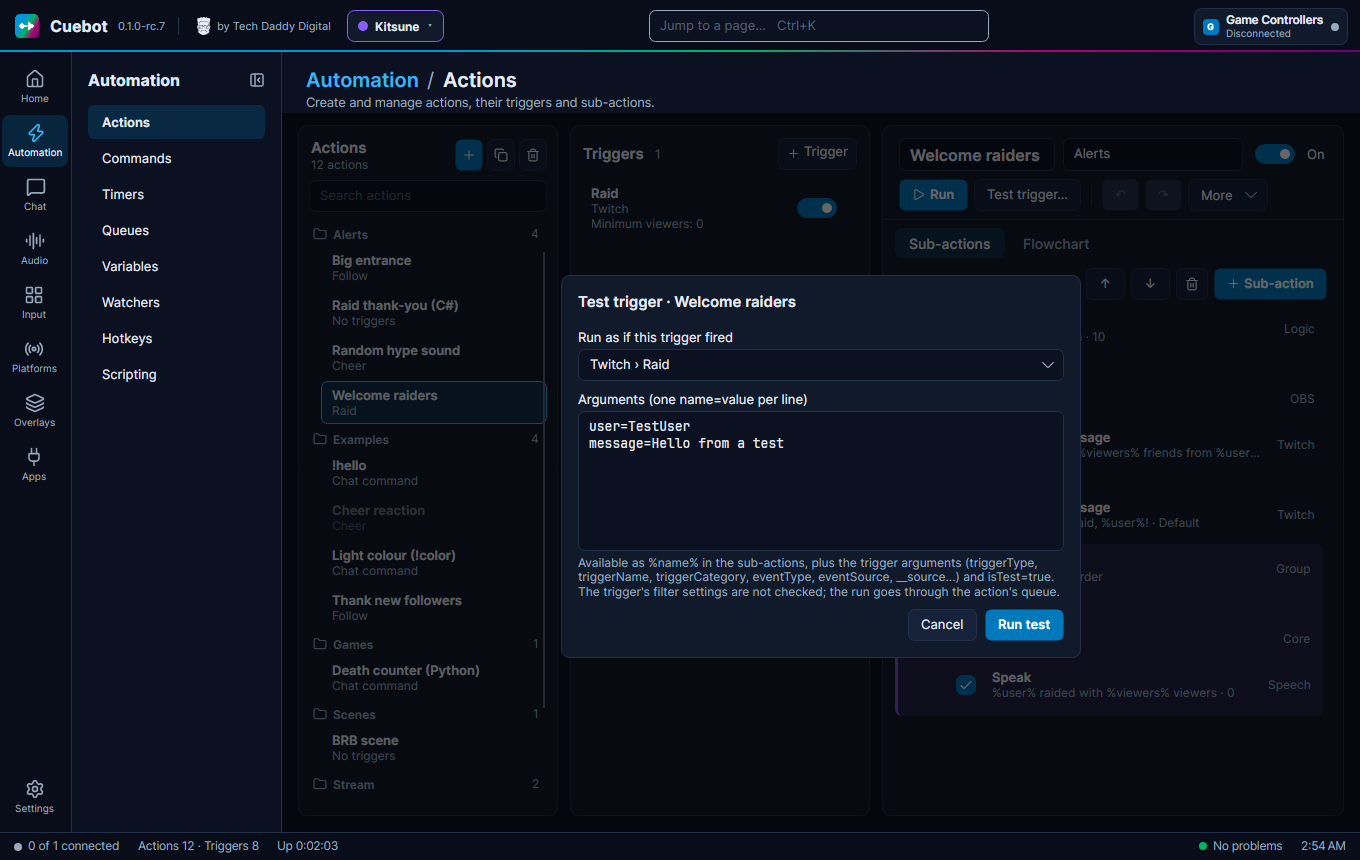
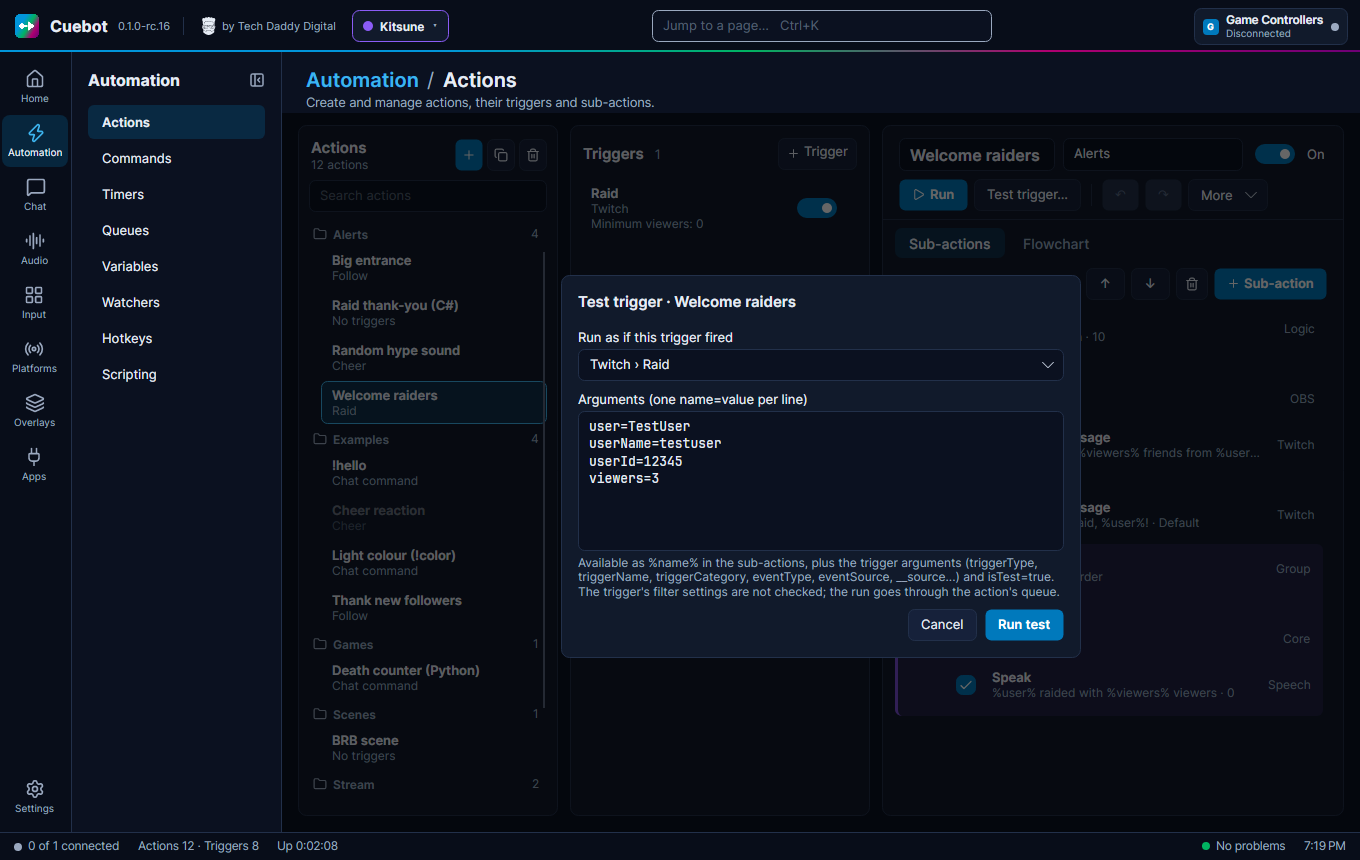
Test trigger starts with sample values for the chosen trigger's variables
Test trigger always started with user=TestUser and a message, whatever the
trigger. Testing a Cheer, Kick gift or Super Chat action then had no bits,
kicks or amount, so a step like "How many = $math(floor(%bits% / 10))$"
failed with "How many must be a number". The arguments box now starts with
a made-up value for each of the chosen trigger's variables (from its help:
bits=100, kicks=100, amount=5, currency=USD, userName=testuser, isX=False,
ids 12345...), raised to the trigger's own minimum (minBits and so on);
picking another trigger starts again from its values.

The action editor guide says so, and that Run (and a deck button without
Variables) gives no trigger values; the first-action guide and the Test
trigger screenshot are updated.

Tests: ActionsUxTests 13/13 with the new
Test_trigger_fills_in_the_triggers_own_variables (real Cheer, Kick gift and
Super Chat help); action editor, Wave2 and docs screenshot tests pass.

AI-Assisted-By: Claude

diff --git a/src/Cuebot.App/ViewModels/Actions/TestTriggerViewModel.cs b/src/Cuebot.App/ViewModels/Actions/TestTriggerViewModel.cs
@@ -6,8 +6,11 @@ using Cuebot.Core.Variables;
 
 namespace Cuebot.App.ViewModels.Actions;
 
-/// <summary>One choice in the test overlay: an action's trigger, or custom arguments only (null trigger).</summary>
-public sealed record TestTriggerOption(string Display, TriggerDefinition? Trigger);
+/// <summary>
+/// One choice in the test overlay: an action's trigger, or custom arguments only (null trigger). <see cref="Sample"/> is
+/// what the arguments box starts with for it: a made-up value for each of the trigger's variables.
+/// </summary>
+public sealed record TestTriggerOption(string Display, TriggerDefinition? Trigger, string Sample = TestTriggerViewModel.DefaultArguments);
 
 /// <summary>
 /// "Test trigger…" overlay: pick a trigger, type key=value arguments (one per line) and run the action as if the
@@ -20,7 +23,9 @@ public sealed partial class TestTriggerViewModel : ObservableObject
     [ObservableProperty] private bool _isOpen;
     [ObservableProperty] private string _actionName = "";
     [ObservableProperty] private TestTriggerOption? _selected;
-    [ObservableProperty] private string _arguments = "user=TestUser\nmessage=Hello from a test";
+    public const string DefaultArguments = "user=TestUser\nmessage=Hello from a test";
+
+    [ObservableProperty] private string _arguments = DefaultArguments;
     [ObservableProperty] private string _error = "";
 
     public ObservableCollection<TestTriggerOption> Options { get; } = [];
@@ -29,12 +34,20 @@ public sealed partial class TestTriggerViewModel : ObservableObject
     {
         ActionName = action.Name;
         Options.Clear();
-        foreach (var t in action.Triggers) Options.Add(new TestTriggerOption($"{t.Category} › {t.Title}", t.Definition));
+        foreach (var t in action.Triggers)
+            Options.Add(new TestTriggerOption($"{t.Category} › {t.Title}", t.Definition, TriggerSamples.Arguments(t.VariableHelp, t.Definition.Settings)));
         Options.Add(new TestTriggerOption("Custom arguments only", null));
+        Selected = null;   // so the first option counts as a change and fills the box
         Selected = Options[0];
         Error = "";
         _run = run;
         IsOpen = true;
+    }
+
+    // Each trigger starts with its own sample values (a cheer gets bits=100); edits are kept until another is chosen.
+    partial void OnSelectedChanged(TestTriggerOption? value)
+    {
+        if (value is not null) Arguments = value.Sample;
     }
 
     /// <summary>Parses "key=value" lines. Blank lines and lines starting with # are ignored.</summary>
@@ -80,5 +93,55 @@ public sealed partial class TestTriggerViewModel : ObservableObject
     {
         IsOpen = false;
         _run = null;
+    }
+}
+
+/// <summary>
+/// Made-up values for a trigger's variables, so "Test trigger" runs an action the way a real event would: a cheer gets
+/// bits, a Kick gift gets kicks, a Super Chat gets an amount. A number is raised to the trigger's own minimum
+/// (minBits for bits, and so on) so the test passes the trigger's filter.
+/// </summary>
+public static class TriggerSamples
+{
+    public static string Arguments(IReadOnlyDictionary<string, string> variables, IReadOnlyDictionary<string, string> settings)
+    {
+        if (variables.Count == 0) return TestTriggerViewModel.DefaultArguments;
+        var lines = variables.Select(v => $"{v.Key}={Value(v.Key, v.Value, settings)}");
+        return string.Join("\n", lines);
+    }
+
+    internal static string Value(string name, string meaning, IReadOnlyDictionary<string, string> settings)
+    {
+        var n = name.ToLowerInvariant();
+        var m = meaning.ToLowerInvariant();
+        string sample;
+        if (n.StartsWith("is", StringComparison.Ordinal) && name.Length > 2 && char.IsUpper(name[2]) || n.StartsWith("has", StringComparison.Ordinal)) sample = "False";
+        else if (n.EndsWith("id", StringComparison.Ordinal)) sample = "12345";
+        else if (n.EndsWith("username", StringComparison.Ordinal) || n == "login") sample = "testuser";   // logins are lowercase
+        else if (n is "user" or "displayname" or "gifter" or "moderator" or "raider" or "topcontributor") sample = "TestUser";
+        else if (n is "message" or "text" or "userinput" or "comment") sample = "Hello from a test";
+        else if (n == "currency") sample = "USD";
+        else if (n.Contains("text", StringComparison.Ordinal) && n.Contains("amount", StringComparison.Ordinal) || n.StartsWith("formatted", StringComparison.Ordinal)) sample = "$5.00";
+        else if (n is "bits" or "kicks" or "points" or "rewardcost") sample = "100";
+        else if (n is "amount" or "total" or "tip" || n.EndsWith("amount", StringComparison.Ordinal)) sample = "5";
+        else if (n is "tier") sample = "1000";
+        else if (n is "viewers" or "count" or "months" or "level" or "streak" || n.EndsWith("count", StringComparison.Ordinal)
+                 || n.EndsWith("months", StringComparison.Ordinal) || m.StartsWith("how many", StringComparison.Ordinal) || m.StartsWith("number of", StringComparison.Ordinal)) sample = "3";
+        else if (n.Contains("url", StringComparison.Ordinal) || n.Contains("link", StringComparison.Ordinal)) sample = "https://example.com";
+        else sample = "Test";
+
+        // The trigger's own lower limit (minBits, minKicks, minAmount…) wins over a smaller sample.
+        if (double.TryParse(sample, System.Globalization.NumberStyles.Float, System.Globalization.CultureInfo.InvariantCulture, out var number))
+        {
+            foreach (var (key, raw) in settings)
+            {
+                if (!key.StartsWith("min", StringComparison.OrdinalIgnoreCase)) continue;
+                var limited = key[3..];
+                if (!string.Equals(limited, name, StringComparison.OrdinalIgnoreCase) && !string.Equals(limited + "s", name, StringComparison.OrdinalIgnoreCase)) continue;
+                if (double.TryParse(raw, System.Globalization.NumberStyles.Float, System.Globalization.CultureInfo.InvariantCulture, out var min) && min > number)
+                    sample = min.ToString(System.Globalization.CultureInfo.InvariantCulture);
+            }
+        }
+        return sample;
     }
 }

diff --git a/tests/Cuebot.UiTests/ActionsUxTests.cs b/tests/Cuebot.UiTests/ActionsUxTests.cs
@@ -264,6 +264,25 @@ public sealed class ActionsUxTests : IAsyncDisposable
         window.Close();
     }
 
+    [Fact]
+    public void Test_trigger_fills_in_the_triggers_own_variables()
+    {
+        static IReadOnlyDictionary<string, object?> Sample(string type, params (string Key, string Value)[] settings)
+        {
+            var text = TriggerSamples.Arguments(ActionHelp.Trigger(type)!.Variables, settings.ToDictionary(s => s.Key, s => s.Value));
+            var args = TestTriggerViewModel.ParseArguments(text, out var error);
+            Assert.Null(error);
+            return args;
+        }
+
+        var cheer = Sample("twitch.cheer", ("minBits", "500"), ("maxBits", "0"));
+        Assert.Equal((500L, "TestUser", false), (Convert.ToInt64(cheer["bits"]), cheer["user"], cheer["isAnonymous"]));   // raised to minBits
+        Assert.Equal(100L, Convert.ToInt64(Sample("kick.kicksGifted", ("minKicks", "10"))["kicks"]));
+        var superChat = Sample("youtube.superChat");
+        Assert.Equal((5L, "USD", "$5.00"), (Convert.ToInt64(superChat["amount"]), superChat["currency"], superChat["amountText"]));
+        Assert.Equal(TestTriggerViewModel.DefaultArguments, TriggerSamples.Arguments(new Dictionary<string, string>(), new Dictionary<string, string>()));
+    }
+
     private ActionDefinition AddGroupedAction(string name = "Grouped")
     {
         var group = Step(GroupSubAction.Id, ("name", "Greeting"));

diff --git a/src/Cuebot.App/ViewModels/Actions/StepViewModels.cs b/src/Cuebot.App/ViewModels/Actions/StepViewModels.cs
@@ -45,6 +45,9 @@ public sealed partial class TriggerItemViewModel : EditorItemViewModel
 
     protected override HelpEntry? Help { get; }
 
+    /// <summary>The variables this trigger gives the action (name → meaning), for the Test trigger overlay.</summary>
+    public IReadOnlyDictionary<string, string> VariableHelp => Help?.Variables ?? new Dictionary<string, string>();
+
     public TriggerDefinition Definition { get; }
     public ITriggerType? Type { get; }
     public override IReadOnlyList<ParameterViewModel> Parameters { get; }

diff --git a/website/docs/guides/actions/action-editor.md b/website/docs/guides/actions/action-editor.md
@@ -256,9 +256,14 @@ Right-click a step (it gets selected first) for:
 
 ## Testing: Run and Test trigger
 
-- **Run** starts the action now, without trigger values. `%user%` and friends stay empty, so text shows them as typed.
+- **Run** starts the action now, without trigger values. `%user%` and friends stay empty, so text shows them as typed,
+  and a step that needs a number from them (like `$math(%bits% / 10)$`) fails. So does a deck button, unless you give it
+  the values under its **Variables** (for example `bits=100`). Use **Test trigger…** to try such an action.
 - **Test trigger…** (++f5++) opens a window. Pick a trigger under **Run as if this trigger fired** (or **Custom
-  arguments only**), type one `name=value` per line under **Arguments**, and click **Run test**.
+  arguments only**), check the `name=value` lines under **Arguments**, and click **Run test**.
+  - **Arguments** starts with a made-up value for each of the chosen trigger's variables: a cheer gets `bits=100`
+    (or the trigger's **Minimum bits**, if higher), a Super Chat gets `amount=5` and `currency=USD`. Change them as
+    you like; picking another trigger starts again from its own values.
   - The values become `%name%` variables. Numbers become real numbers.
   - Cuebot also adds the trigger's own values (`%triggerName%`, `%triggerCategory%`, `%eventType%`, ...) and
     `%isTest%` = `true`.

diff --git a/website/docs/guides/actions/your-first-action.md b/website/docs/guides/actions/your-first-action.md
@@ -100,7 +100,7 @@ You don't need a real raid. **Test trigger…** starts the action as if the trig
 
 1. Click **Test trigger…** (or press ++f5++).
 2. **Run as if this trigger fired** already shows **Twitch › Raid**.
-3. In **Arguments**, replace the example lines with:
+3. **Arguments** already has made-up values for the raid (`user`, `viewers` and so on). Change the two that matter to:
 
     ```
     user=Bob
